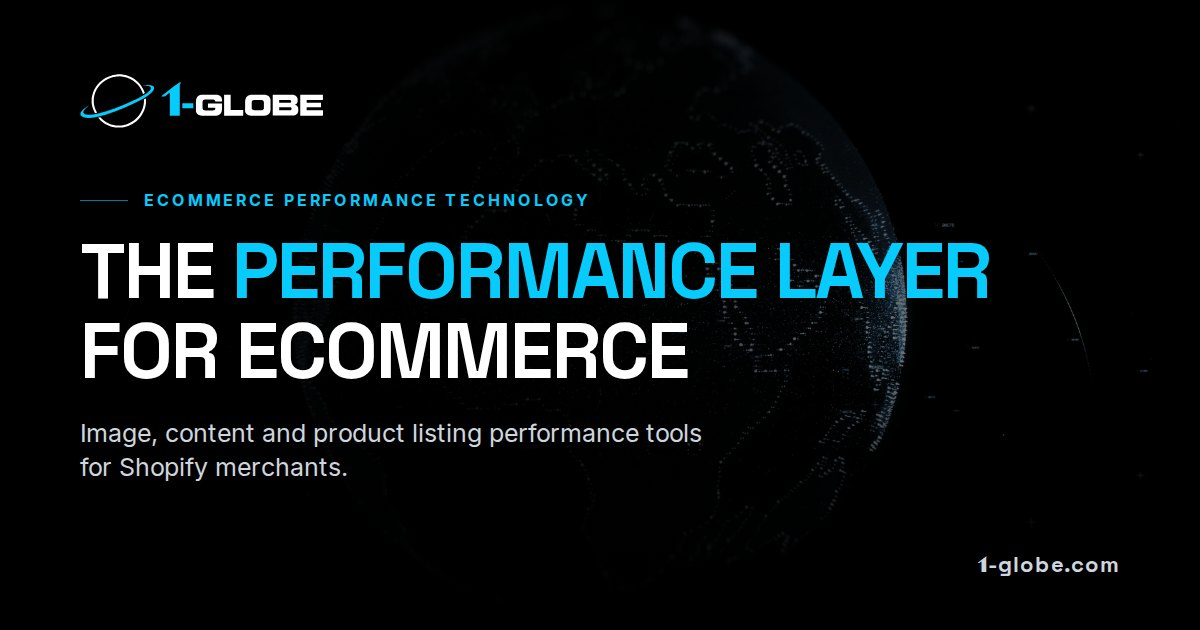
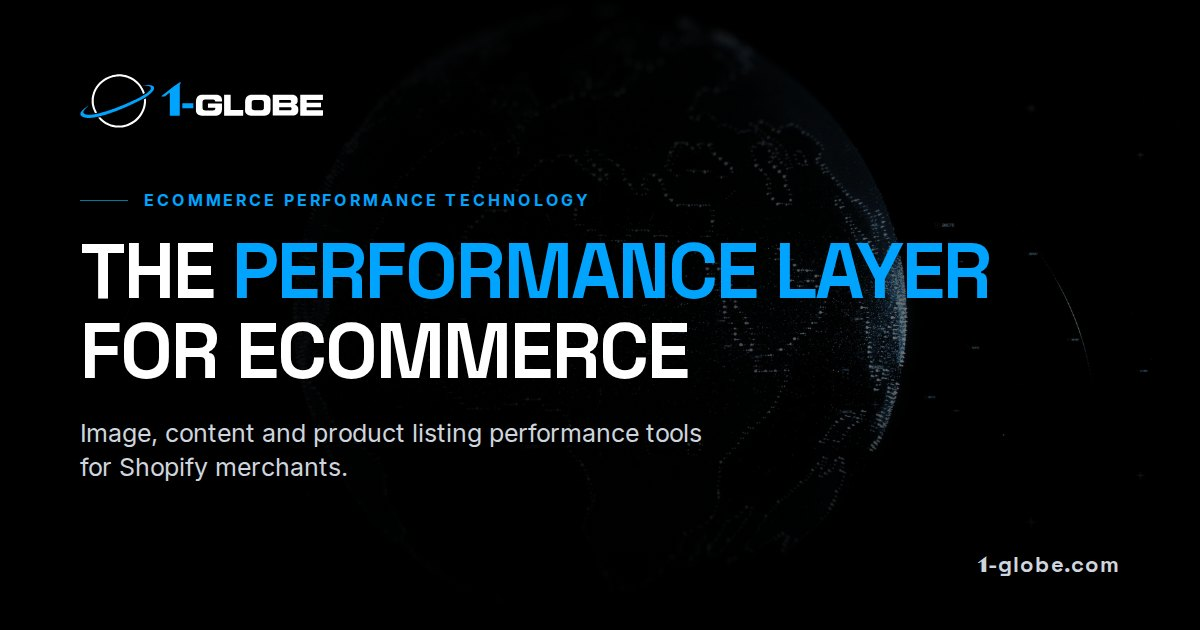
Brand colour #00A4FF, defined once as --brand and used everywhere
- globals.css --brand (R G B) is the single source; primary, accent, ring, info,
  the logo 1-, orbit, app names, animations and Tailwind 'brand' all read from it
- Stock Tailwind cyan in the search animation replaced with brand
- Logo SVGs, favicon, app icons, square logo and share image rebuilt in #00A4FF

Claude-Session: https://claude.ai/code/session_01KSFYk5MT1Bqrc69AhoFdrP

Changed region(s): [[0.185, 0.3619, 0.8325, 0.4825], [0.1233, 0.3016, 0.4933, 0.3317], [0.0925, 0.1206, 0.1542, 0.181]]

diff --git a/src/components/shared/BrandLogo.tsx b/src/components/shared/BrandLogo.tsx
@@ -7,7 +7,7 @@ export interface BrandLockupProps {
 // Official 1-GLOBE logo (globe mark + cyan "1-" + GLOBE wordmark), traced to vector
 // from the master artwork. Standalone files: public/logo.svg, public/logo-dark.svg,
 // public/logo-mark.svg. White parts use currentColor so the logo follows the text colour.
-export const LOGO_CYAN = '#07CAFD'
+export const LOGO_CYAN = 'rgb(var(--brand))' // follows --brand in globals.css
 
 export const BrandLockup: React.FC<BrandLockupProps> = ({ className = '' }) => (
   <svg
@@ -18,7 +18,7 @@ export const BrandLockup: React.FC<BrandLockupProps> = ({ className = '' }) => (
     className={`block h-8 w-auto shrink-0 text-foreground sm:h-9 ${className}`}
   >
     <path fill="currentColor" fillRule="evenodd" d="M357.5 132.5L356.5 132.5L352.2 135.2L347.7 137.5L347 138.5L347 151.5L346.7 155.7L346 158.5L346 161.3L343.8 173.3L343.2 174.8L341.8 181.2L338.8 190.3L337.2 193.8L336 197.3L330 209.2L323.2 220L317.3 227.8L311 235.2L302.7 243.3L294.2 250.5L278.3 261L263 268.8L247.5 274.7L244.8 275.2L243.3 275.8L241.5 276L239.5 276.8L233.5 278L230.8 278.2L228.2 279L225.2 279L219.8 280L201.3 280L195.8 279L193 279L189 278L181.7 277L179.3 276L173.5 274.8L162.5 271L155.5 268L154.3 267.2L145.5 263L136.5 257.5L127.7 251.2L119.8 244.5L110 234.7L108.7 234.7L104.2 235.8L101.5 236.2L99.5 236.8L98.8 237.5L98.8 238L105.7 246L111.7 252L118.8 258.3L124.7 263L136.5 270.8L142.7 274.3L154.3 279.8L161.3 282.7L163.2 283L170.5 285.7L176.3 287L177.7 287.7L179.8 287.8L183.5 288.8L186.5 289L189.8 289.8L192.8 289.8L196.8 290.8L224.2 290.8L228.3 289.8L231.2 289.8L243.3 287.7L244.7 287L246.3 286.8L253.3 284.8L265 280.5L272.8 277L284.3 270.8L296.2 263.2L304.2 257.2L313.2 249.3L322 240.2L329.8 230.3L336 221.3L341.2 212.2L347.5 199L352.8 184.2L355.7 173.3L356 169.8L356.8 166.5L356.8 164.2L357.8 160.5L357.8 156.7L358.3 152.7L358.3 142.5ZM346.5 89.5L339.2 75.3L331 62.7L322.2 51.7L313.3 42.5L301.8 32.5L291.2 24.8L279.2 17.8L269.3 13.2L262.3 10.3L252 7L246.7 5.8L245.3 5.2L243.2 5L240 4.2L235.5 3.8L231.8 3L228.5 3L221.8 2L204.5 2L199 3L195.5 3L192 3.8L188.7 4L184.3 5L182.8 5L180.7 5.8L173.7 7.3L169.2 9L164.5 10.2L149.8 16L137.7 22.2L125.5 29.7L113.7 38.7L104 47.7L94.7 58L86.5 69.5L80.2 80.2L77.2 85.8L71.3 99.5L69 106.5L65.2 121L63.2 134.8L63.2 156L65.2 169.5L69 184.2L74 197.3L81.2 211.2L82.7 211.8L91.8 209.7L92.2 209.3L92 208.2L88.7 202.3L85.3 195.3L82 187.3L79.8 180.8L76.8 169.5L74.8 156.2L74.8 134L75.7 129.8L76 125.3L76.8 122L77 119.5L77.7 118L79 112L82.8 100.5L85.2 94.8L88.8 87.3L95.5 75.8L103.5 65L109.5 58L114.7 52.7L127.8 41.5L139.7 33.7L149.7 28.2L155.3 25.8L158.8 24L166.5 21L168.3 20.7L173 18.8L178.2 17.7L180.3 16.8L182.2 16.7L184.3 15.8L186.2 15.8L190.8 14.8L193.3 14.8L197.3 13.8L200.7 13.8L205.8 13L216.8 12.8L224.7 13.8L228.3 13.8L232.5 14.8L235 14.8L239.5 15.8L241.2 15.8L252 18.8L256.7 20.7L259.3 21.3L272.2 27L279.2 30.7L287.2 35.7L298.8 44.3L311.3 56L317.3 62.8L322.7 69.8L330.2 81.7L336.2 93.7L337 96.3L338.8 100L341.2 107L342.2 108.3L347.2 106L350 104.3L351 103.3L350.8 100.8ZM1195.1 113.5L1195.1 225L1195.3 225.7L1196.3 226L1314.7 226L1317.5 225.8L1318.3 225.3L1318.7 224.2L1318.7 198.3L1318 197.1L1231.5 197.1L1230.2 196.2L1229.9 195.2L1229.9 182.2L1230.8 181L1231.5 180.8L1307.2 180.8L1307.8 179.7L1307.8 157.3L1307.3 156.3L1306.2 156.2L1294.3 156.2L1231.7 156.2L1230.7 156L1230 155.2L1230 141.8L1230.7 141L1231.8 140.6L1317.2 140.6L1318.2 139.3L1318.2 114.3L1318 113.3L1317.2 112.8L1196.5 112.8L1195.7 113ZM1045.8 113.7L1045.8 224.5L1046.5 225.8L1155.2 225.8L1160.3 224.8L1161.8 224.8L1169.3 222.5L1172.2 221L1174.8 219L1178.2 215.8L1180.5 212.5L1181.7 210.2L1183.8 204.3L1184.5 197.7L1184.5 192L1183.7 183.7L1180.8 177.3L1177.2 172.7L1173 170L1165.5 167.5L1165.5 167L1166.5 166.2L1168 165.8L1171.2 164.3L1173 163.2L1175.3 161L1178 157.3L1179.8 153.3L1180.9 150.2L1180.9 141.7L1180.9 134L1177.5 125.8L1175.5 122.8L1172.3 119.5L1170.2 117.8L1167 116.2L1161.3 114.2L1156.7 113.2L1152.2 112.8L1047.5 112.8L1046.5 113ZM1080.8 181.7L1081.8 180.4L1140.3 180.4L1143.3 181L1145.3 182.2L1146.5 183.3L1148 186.8L1148 190.3L1147 193L1145.3 194.8L1143 196.2L1140.3 197L1082 197L1081 196.3L1080.8 195.7ZM1080.8 141.8L1081.7 140.8L1082.5 140.8L1140.5 140.8L1143 142.2L1145 144.5L1145.8 147L1145.8 149.8L1144.8 152.7L1143.5 154.3L1140.3 156.2L1129 156.2L1082.7 156.2L1081.7 156.2L1080.8 155.2ZM782.5 112.9L781.9 114.2L781.9 225.3L783.2 226L883.2 226L884.8 225.7L885.3 225.2L885.5 224.3L885.5 196.2L885.3 195.7L884.3 195L818.7 195L817.5 194.2L817.5 113.7L816.2 112.9ZM1027.7 124.5L1023.2 119.8L1017 116.2L1011.3 114.2L1007 113.2L998.5 112.5L931.7 112.5L925.7 113L920.7 114.2L914.5 116.3L910.7 118.5L906.8 121.5L904.7 123.7L902.3 126.8L900.2 130.7L897.2 139.5L896 146.7L896 184.7L895.5 190.7L895.5 197.2L896 203.2L897 207L900 213.3L902.7 216.3L905.7 218.8L909.8 221.5L915.3 223.7L920.2 224.8L921.8 224.8L927.3 226L934 225.9L1002.3 225.9L1007.3 224.8L1009 224.8L1013.2 223.7L1018.3 221.5L1022 219.2L1024.3 217.2L1027.3 213.8L1030.2 209.2L1032.7 202.2L1033 198.7L1033.8 195.3L1033.8 140.7L1032.7 134.5L1029.7 127.5ZM933.3 147L935.7 144.3L937.5 143.2L940.5 142L944.5 141.3L985.2 141.3L989.2 142L993 143.8L995.3 146L996.8 148.7L997.8 153.7L997.8 185.7L996.7 189.3L995.5 191.2L993.3 193.5L991 194.8L987.7 196.1L944.8 196.1L941.5 195.8L936.7 193.8L934.5 191.8L933.3 190.2L931.8 185.5L931.8 151.5ZM636.3 124.8L633.8 128.7L631 135.5L630 140.3L629.1 151.5L629.1 202.2L631 209.3L632.7 212.2L634.5 214.7L639.8 219.3L644.7 222L649.8 223.8L659.7 226L668.8 225.9L739.3 225.9L746 224.8L752.3 222.8L757.3 220.2L760.8 217.3L763 215L766.8 208.5L768.7 203.3L769.8 198L770.4 189.2L770.4 161.3L769.7 160.3L768.8 160.1L695.7 160.1L694.8 160.5L694.3 161.3L694.2 162.8L694.2 182.2L694.8 183L696.5 183.6L733.2 183.6L734 184.7L734 188.7L732.7 192.2L730 195L728.2 196.2L726 197L720.8 197.7L681 197.7L673.7 196.8L671.3 195.8L669.7 194.7L667.5 192.3L666 189.3L664.9 184.2L664.9 150.7L666 146.3L666.8 144.5L669.8 141.2L672.7 139.8L674.2 139.7L676.3 138.8L722.8 138.8L727.2 140L730 141.5L731.2 142.7L732.8 145.8L733.3 148.3L734.7 149L769.3 149L770.4 148.3L770.4 139.5L769.5 132.7L768 128.7L765.8 124.7L763.5 121.7L759.3 118L756 116.2L750.3 114L746.3 113L738.2 112L664 112L656 113.2L654.2 113.8L652.5 114L647.7 115.8L641.7 119.5L639.5 121.3Z" />
-    <path fill={LOGO_CYAN} fillRule="evenodd" d="M401.3 72.5L400 69.8L397.3 66.7L395.8 65.5L392 63.3L387.8 62.3L386 61.3L383.3 60.7L371.8 59.3L363.8 59.3L356.5 60.2L346.8 60.7L342.7 61.7L342.8 62.2L345.5 62.7L358 62.8L362.3 63.3L373 65.7L378.2 67.5L381.2 69.5L383.3 71.7L384.5 73.7L384.8 75.3L384.7 79L384.2 80.8L382.5 84.2L377.5 90.3L372 95.5L365.3 101.2L358.2 106.5L339.3 118.2L321 128.2L296.5 140.5L293.8 141.5L284 146.5L276.8 149.5L271.3 152.5L269.7 152.8L267 154.3L263.7 155.5L262.2 156.5L256.2 159.2L251 161L244.2 164.3L231.7 169.3L230 170.3L226.3 171.5L215.2 176.3L211.5 177.5L204.5 180.5L202 181.2L200.2 182.2L196.8 183.2L193.2 184.8L190.7 185.5L184.5 188.2L180.7 189.2L178.3 190.3L174.2 191.5L171.3 192.8L162.8 195.5L161.2 196.3L158 197L155 198.3L151 199.3L148.7 200.3L138 203.2L135.8 204.2L130.8 205.3L128 206.5L117.7 209L114.2 210.3L109.3 211.3L106.3 212.5L101.7 213.3L99.5 214.2L91.7 215.5L89.3 216.3L82.5 217.3L79.3 218.3L60.7 221L45.5 221.3L40.8 221.2L34 220.3L32.2 219.5L27.7 218.3L23.5 216.3L19.5 212L18.5 209.3L18.3 205.8L19.3 201.7L21.5 197.5L25.3 192.2L31.8 185.2L39.2 179.2L43.7 175L44.8 174.3L46 172.7L44.7 172.8L36.7 177.5L25.2 185.5L19 190.7L10.8 198.8L5.7 205.7L3.2 210.8L2.3 214.2L2.3 218.2L3.2 222.2L4.7 224.8L7.8 228.3L13.7 232.3L17 233.3L19.5 234.5L25.8 236.2L31.3 236.8L34 237.5L41.8 238.2L54.2 238.2L59.8 237.5L67 237.2L83.7 234.7L87.8 233.5L94.7 232.5L98 231.3L103.3 230.5L106.5 229.5L112 228.5L113.8 227.7L118.3 226.8L121.7 225.5L127.2 224.5L129.5 223.5L139.8 220.7L142.5 219.5L147 218.5L157.8 214.7L160.2 214.2L166.5 211.7L170.3 210.7L172.7 209.5L176 208.7L183.7 205.5L187.3 204.5L189.7 203.3L193.3 202.3L194.8 201.5L203.2 198.5L204.5 197.7L207.8 196.7L210.7 195.2L213.2 194.5L219.7 191.7L223 190.7L229.7 187.5L236 185.2L238.7 183.7L241.8 182.7L248.8 179.5L251 178.8L266.7 171.5L268.3 171L271 169.5L274.2 168.5L288.8 161.3L291.3 160.5L301.5 155.3L304.3 154.3L305.5 153.3L308.2 152.3L312.8 149.7L327.2 142.7L337.7 136.5L341.2 134.8L342.7 133.7L354.2 127L367.5 118.2L378.2 110L384 105L392.3 96.3L397.8 89L400.8 83.2L401.3 81.5L401.8 76.8L401.8 74.5ZM546.3 44.8L539.5 45.7L507.7 67.2L440.8 120.3L443.8 121.6L460.5 121.6L483.8 102.7L487.5 102L487.5 226.2L538.7 226.2L541.5 225L541.5 57.7L547.3 46.8ZM555.2 158.2L614.7 158.2L614.7 185.5L555.2 185.5Z" />
+    <path style={{ fill: LOGO_CYAN }} fillRule="evenodd" d="M401.3 72.5L400 69.8L397.3 66.7L395.8 65.5L392 63.3L387.8 62.3L386 61.3L383.3 60.7L371.8 59.3L363.8 59.3L356.5 60.2L346.8 60.7L342.7 61.7L342.8 62.2L345.5 62.7L358 62.8L362.3 63.3L373 65.7L378.2 67.5L381.2 69.5L383.3 71.7L384.5 73.7L384.8 75.3L384.7 79L384.2 80.8L382.5 84.2L377.5 90.3L372 95.5L365.3 101.2L358.2 106.5L339.3 118.2L321 128.2L296.5 140.5L293.8 141.5L284 146.5L276.8 149.5L271.3 152.5L269.7 152.8L267 154.3L263.7 155.5L262.2 156.5L256.2 159.2L251 161L244.2 164.3L231.7 169.3L230 170.3L226.3 171.5L215.2 176.3L211.5 177.5L204.5 180.5L202 181.2L200.2 182.2L196.8 183.2L193.2 184.8L190.7 185.5L184.5 188.2L180.7 189.2L178.3 190.3L174.2 191.5L171.3 192.8L162.8 195.5L161.2 196.3L158 197L155 198.3L151 199.3L148.7 200.3L138 203.2L135.8 204.2L130.8 205.3L128 206.5L117.7 209L114.2 210.3L109.3 211.3L106.3 212.5L101.7 213.3L99.5 214.2L91.7 215.5L89.3 216.3L82.5 217.3L79.3 218.3L60.7 221L45.5 221.3L40.8 221.2L34 220.3L32.2 219.5L27.7 218.3L23.5 216.3L19.5 212L18.5 209.3L18.3 205.8L19.3 201.7L21.5 197.5L25.3 192.2L31.8 185.2L39.2 179.2L43.7 175L44.8 174.3L46 172.7L44.7 172.8L36.7 177.5L25.2 185.5L19 190.7L10.8 198.8L5.7 205.7L3.2 210.8L2.3 214.2L2.3 218.2L3.2 222.2L4.7 224.8L7.8 228.3L13.7 232.3L17 233.3L19.5 234.5L25.8 236.2L31.3 236.8L34 237.5L41.8 238.2L54.2 238.2L59.8 237.5L67 237.2L83.7 234.7L87.8 233.5L94.7 232.5L98 231.3L103.3 230.5L106.5 229.5L112 228.5L113.8 227.7L118.3 226.8L121.7 225.5L127.2 224.5L129.5 223.5L139.8 220.7L142.5 219.5L147 218.5L157.8 214.7L160.2 214.2L166.5 211.7L170.3 210.7L172.7 209.5L176 208.7L183.7 205.5L187.3 204.5L189.7 203.3L193.3 202.3L194.8 201.5L203.2 198.5L204.5 197.7L207.8 196.7L210.7 195.2L213.2 194.5L219.7 191.7L223 190.7L229.7 187.5L236 185.2L238.7 183.7L241.8 182.7L248.8 179.5L251 178.8L266.7 171.5L268.3 171L271 169.5L274.2 168.5L288.8 161.3L291.3 160.5L301.5 155.3L304.3 154.3L305.5 153.3L308.2 152.3L312.8 149.7L327.2 142.7L337.7 136.5L341.2 134.8L342.7 133.7L354.2 127L367.5 118.2L378.2 110L384 105L392.3 96.3L397.8 89L400.8 83.2L401.3 81.5L401.8 76.8L401.8 74.5ZM546.3 44.8L539.5 45.7L507.7 67.2L440.8 120.3L443.8 121.6L460.5 121.6L483.8 102.7L487.5 102L487.5 226.2L538.7 226.2L541.5 225L541.5 57.7L547.3 46.8ZM555.2 158.2L614.7 158.2L614.7 185.5L555.2 185.5Z" />
   </svg>
 )
 
@@ -41,7 +41,7 @@ export const BrandWordmark: React.FC<BrandWordmarkProps> = ({ className = '' }) 
       style={{ marginBottom: '-0.02em' }}
     >
       <path fill="currentColor" fillRule="evenodd" d="M756.1 70.5L756.1 182L756.3 182.7L757.3 183L875.7 183L878.5 182.8L879.3 182.3L879.7 181.2L879.7 155.3L879 154.1L792.5 154.1L791.2 153.2L790.9 152.2L790.9 139.2L791.8 138L792.5 137.8L868.2 137.8L868.8 136.7L868.8 114.3L868.3 113.3L867.2 113.2L855.3 113.2L792.7 113.2L791.7 113L791 112.2L791 98.8L791.7 98L792.8 97.6L878.2 97.6L879.2 96.3L879.2 71.3L879 70.3L878.2 69.8L757.5 69.8L756.7 70ZM606.8 70.7L606.8 181.5L607.5 182.8L716.2 182.8L721.3 181.8L722.8 181.8L730.3 179.5L733.2 178L735.8 176L739.2 172.8L741.5 169.5L742.7 167.2L744.8 161.3L745.5 154.7L745.5 149L744.7 140.7L741.8 134.3L738.2 129.7L734 127L726.5 124.5L726.5 124L727.5 123.2L729 122.8L732.2 121.3L734 120.2L736.3 118L739 114.3L740.8 110.3L741.9 107.2L741.9 98.7L741.9 91L738.5 82.8L736.5 79.8L733.3 76.5L731.2 74.8L728 73.2L722.3 71.2L717.7 70.2L713.2 69.8L608.5 69.8L607.5 70ZM641.8 138.7L642.8 137.4L701.3 137.4L704.3 138L706.3 139.2L707.5 140.3L709 143.8L709 147.3L708 150L706.3 151.8L704 153.2L701.3 154L643 154L642 153.3L641.8 152.7ZM641.8 98.8L642.7 97.8L643.5 97.8L701.5 97.8L704 99.2L706 101.5L706.8 104L706.8 106.8L705.8 109.7L704.5 111.3L701.3 113.2L690 113.2L643.7 113.2L642.7 113.2L641.8 112.2ZM343.5 69.9L342.9 71.2L342.9 182.3L344.2 183L444.2 183L445.8 182.7L446.3 182.2L446.5 181.3L446.5 153.2L446.3 152.7L445.3 152L379.7 152L378.5 151.2L378.5 70.7L377.2 69.9ZM588.7 81.5L584.2 76.8L578 73.2L572.3 71.2L568 70.2L559.5 69.5L492.7 69.5L486.7 70L481.7 71.2L475.5 73.3L471.7 75.5L467.8 78.5L465.7 80.7L463.3 83.8L461.2 87.7L458.2 96.5L457 103.7L457 141.7L456.5 147.7L456.5 154.2L457 160.2L458 164L461 170.3L463.7 173.3L466.7 175.8L470.8 178.5L476.3 180.7L481.2 181.8L482.8 181.8L488.3 183L495 182.9L563.3 182.9L568.3 181.8L570 181.8L574.2 180.7L579.3 178.5L583 176.2L585.3 174.2L588.3 170.8L591.2 166.2L593.7 159.2L594 155.7L594.8 152.3L594.8 97.7L593.7 91.5L590.7 84.5ZM494.3 104L496.7 101.3L498.5 100.2L501.5 99L505.5 98.3L546.2 98.3L550.2 99L554 100.8L556.3 103L557.8 105.7L558.8 110.7L558.8 142.7L557.7 146.3L556.5 148.2L554.3 150.5L552 151.8L548.7 153.1L505.8 153.1L502.5 152.8L497.7 150.8L495.5 148.8L494.3 147.2L492.8 142.5L492.8 108.5ZM197.3 81.8L194.8 85.7L192 92.5L191 97.3L190.1 108.5L190.1 159.2L192 166.3L193.7 169.2L195.5 171.7L200.8 176.3L205.7 179L210.8 180.8L220.7 183L229.8 182.9L300.3 182.9L307 181.8L313.3 179.8L318.3 177.2L321.8 174.3L324 172L327.8 165.5L329.7 160.3L330.8 155L331.4 146.2L331.4 118.3L330.7 117.3L329.8 117.1L256.7 117.1L255.8 117.5L255.3 118.3L255.2 119.8L255.2 139.2L255.8 140L257.5 140.6L294.2 140.6L295 141.7L295 145.7L293.7 149.2L291 152L289.2 153.2L287 154L281.8 154.7L242 154.7L234.7 153.8L232.3 152.8L230.7 151.7L228.5 149.3L227 146.3L225.9 141.2L225.9 107.7L227 103.3L227.8 101.5L230.8 98.2L233.7 96.8L235.2 96.7L237.3 95.8L283.8 95.8L288.2 97L291 98.5L292.2 99.7L293.8 102.8L294.3 105.3L295.7 106L330.3 106L331.4 105.3L331.4 96.5L330.5 89.7L329 85.7L326.8 81.7L324.5 78.7L320.3 75L317 73.2L311.3 71L307.3 70L299.2 69L225 69L217 70.2L215.2 70.8L213.5 71L208.7 72.8L202.7 76.5L200.5 78.3Z" />
-      <path fill={LOGO_CYAN} fillRule="evenodd" d="M107.3 1.8L100.5 2.7L68.7 24.2L1.8 77.3L4.8 78.6L21.5 78.6L44.8 59.7L48.5 59L48.5 183.2L99.7 183.2L102.5 182L102.5 14.7L108.3 3.8ZM116.2 115.2L175.7 115.2L175.7 142.5L116.2 142.5Z" />
+      <path style={{ fill: LOGO_CYAN }} fillRule="evenodd" d="M107.3 1.8L100.5 2.7L68.7 24.2L1.8 77.3L4.8 78.6L21.5 78.6L44.8 59.7L48.5 59L48.5 183.2L99.7 183.2L102.5 182L102.5 14.7L108.3 3.8ZM116.2 115.2L175.7 115.2L175.7 142.5L116.2 142.5Z" />
     </svg>
   </>
 )
@@ -112,7 +112,7 @@ export const AppMark: React.FC<AppMarkProps> = ({ app, className = '' }) => (
     className={`inline-block shrink-0 ${className}`}
   >
     <path fill="currentColor" fillRule="evenodd" d={MARK_SHAPES[app]} />
-    <path fill={LOGO_CYAN} d={MARK_ORBIT} />
+    <path style={{ fill: LOGO_CYAN }} d={MARK_ORBIT} />
   </svg>
 )
 

diff --git a/src/components/feature-page/AIPipelineHeroCard.tsx b/src/components/feature-page/AIPipelineHeroCard.tsx
@@ -15,12 +15,12 @@ export const AIPipelineHeroCard: React.FC = () => {
         }
         @keyframes fadeOutIn {
           0%, 23% { content: "IMG_4837.jpg"; color: #94a3b8; text-shadow: none; }
-          25%, 32% { content: "wooden-wall-clock-12-inch.webp"; color: #fff; text-shadow: 0 0 10px #07CAFD, 0 0 20px #07CAFD; }
-          35%, 100% { content: "wooden-wall-clock-12-inch.webp"; color: #07CAFD; text-shadow: none; }
+          25%, 32% { content: "wooden-wall-clock-12-inch.webp"; color: #fff; text-shadow: 0 0 10px rgb(var(--brand)), 0 0 20px rgb(var(--brand)); }
+          35%, 100% { content: "wooden-wall-clock-12-inch.webp"; color: rgb(var(--brand)); text-shadow: none; }
         }
         @keyframes highlightFilenameBox {
           0%, 20% { border-color: rgba(30,41,59,1); box-shadow: none; background-color: rgba(15,23,42,0.6); }
-          24%, 34% { border-color: rgba(7, 202, 253,0.5); box-shadow: 0 0 15px rgba(7, 202, 253,0.15); background-color: rgba(7, 202, 253,0.05); }
+          24%, 34% { border-color: rgb(var(--brand) / 0.5); box-shadow: 0 0 15px rgb(var(--brand) / 0.15); background-color: rgb(var(--brand) / 0.05); }
           38%, 100% { border-color: rgba(30,41,59,1); box-shadow: none; background-color: rgba(15,23,42,0.6); }
         }
         @keyframes typewriter {
@@ -29,7 +29,7 @@ export const AIPipelineHeroCard: React.FC = () => {
         }
         @keyframes highlightAltBox {
           0%, 38% { border-color: rgba(30,41,59,1); box-shadow: none; background-color: rgba(15,23,42,0.6); }
-          40%, 72% { border-color: rgba(7, 202, 253,0.5); box-shadow: 0 0 15px rgba(7, 202, 253,0.15); background-color: rgba(7, 202, 253,0.05); }
+          40%, 72% { border-color: rgb(var(--brand) / 0.5); box-shadow: 0 0 15px rgb(var(--brand) / 0.15); background-color: rgb(var(--brand) / 0.05); }
           76%, 100% { border-color: rgba(30,41,59,1); box-shadow: none; background-color: rgba(15,23,42,0.6); }
         }
         @keyframes arrowFlow {
@@ -38,7 +38,7 @@ export const AIPipelineHeroCard: React.FC = () => {
         }
         @keyframes badgeGlow {
           0%, 76% { border-color: rgba(51, 65, 85, 0.5); color: #64748b; background-color: transparent; }
-          82%, 100% { border-color: rgba(7, 202, 253, 0.4); color: #fff; background-color: rgba(7, 202, 253, 0.1); box-shadow: 0 0 12px rgba(7, 202, 253,0.15); }
+          82%, 100% { border-color: rgb(var(--brand) / 0.4); color: #fff; background-color: rgb(var(--brand) / 0.1); box-shadow: 0 0 12px rgb(var(--brand) / 0.15); }
         }
         @keyframes pulseCheck {
           0%, 33% { opacity: 0; transform: scale(0.5); }
@@ -48,7 +48,7 @@ export const AIPipelineHeroCard: React.FC = () => {
         .animate-scan { animation: scanLine 10s linear infinite; }
         .animate-filename::before { content: "IMG_4837.jpg"; animation: fadeOutIn 10s linear infinite; }
         .animate-filename-box { animation: highlightFilenameBox 10s linear infinite; }
-        .animate-typewriter { animation: typewriter 10s steps(40, end) infinite; overflow: hidden; white-space: nowrap; border-right: 2px solid #07CAFD; }
+        .animate-typewriter { animation: typewriter 10s steps(40, end) infinite; overflow: hidden; white-space: nowrap; border-right: 2px solid rgb(var(--brand)); }
         .animate-alt-box { animation: highlightAltBox 10s linear infinite; }
         .animate-flow { animation: arrowFlow 10s ease-out infinite; }
         .animate-badge { animation: badgeGlow 10s ease-out infinite; }
@@ -58,9 +58,9 @@ export const AIPipelineHeroCard: React.FC = () => {
           .animate-scan, .animate-filename::before, .animate-typewriter, .animate-flow, .animate-badge, .animate-check, .animate-filename-box, .animate-alt-box {
             animation: none !important;
           }
-          .animate-filename::before { content: "wooden-wall-clock-12-inch.webp"; color: #07CAFD; }
+          .animate-filename::before { content: "wooden-wall-clock-12-inch.webp"; color: rgb(var(--brand)); }
           .animate-typewriter { width: 100%; border-right: none; }
-          .animate-badge { border-color: rgba(7, 202, 253, 0.4); color: #fff; background-color: rgba(7, 202, 253, 0.1); }
+          .animate-badge { border-color: rgb(var(--brand) / 0.4); color: #fff; background-color: rgb(var(--brand) / 0.1); }
           .animate-check { opacity: 1; transform: scale(1); }
           .animate-filename-box, .animate-alt-box { border-color: rgba(30,41,59,1); background-color: rgba(15,23,42,0.6); }
         }
@@ -77,7 +77,7 @@ export const AIPipelineHeroCard: React.FC = () => {
             className="object-cover opacity-80"
           />
           {/* Scanning Line */}
-          <div className="absolute left-0 w-full h-[2px] bg-primary shadow-[0_0_8px_2px_rgba(7, 202, 253,0.6)] animate-scan z-10">
+          <div className="absolute left-0 w-full h-[2px] bg-primary shadow-[0_0_8px_2px_rgb(var(--brand)/0.6)] animate-scan z-10">
             <div className="absolute top-0 left-0 w-full h-12 bg-gradient-to-b from-primary/20 to-transparent -translate-y-full" />
           </div>
           

diff --git a/src/components/home/GoogleSearchAnimationCard.tsx b/src/components/home/GoogleSearchAnimationCard.tsx
@@ -53,7 +53,7 @@ export const GoogleSearchAnimationCard: React.FC = () => {
         `}} />
 
         {/* Ambient Glows */}
-        <div className="absolute top-0 right-0 w-[400px] h-[300px] bg-cyan-500/5 blur-[80px] pointer-events-none rounded-full" />
+        <div className="absolute top-0 right-0 w-[400px] h-[300px] bg-brand/5 blur-[80px] pointer-events-none rounded-full" />
         <div className="absolute bottom-0 left-0 w-[400px] h-[300px] bg-teal-500/5 blur-[80px] pointer-events-none rounded-full" />
 
         {/* Left Side: Your Store */}
@@ -89,17 +89,17 @@ export const GoogleSearchAnimationCard: React.FC = () => {
           {/* Metadata Boxes */}
           <div className="grid grid-cols-1 sm:grid-cols-2 lg:grid-cols-1 gap-3">
             {/* Filename */}
-            <div className={`p-3.5 rounded-[var(--radius)] border transition-all duration-500 ${step === 1 ? 'border-cyan-500 bg-cyan-500/10 shadow-[0_0_15px_rgba(7, 202, 253,0.15)]' : step >= 2 ? 'border-slate-600 bg-slate-800/50' : 'border-slate-700 bg-slate-800/50'}`}>
+            <div className={`p-3.5 rounded-[var(--radius)] border transition-all duration-500 ${step === 1 ? 'border-brand bg-brand/10 shadow-[0_0_15px_rgb(var(--brand)/0.15)]' : step >= 2 ? 'border-slate-600 bg-slate-800/50' : 'border-slate-700 bg-slate-800/50'}`}>
               <div className="text-[13px] text-slate-500 uppercase tracking-wider mb-1.5 flex items-center gap-1.5">
                 <ImageIcon className="w-3 h-3" /> Filename
               </div>
-              <div className={`font-mono text-[13px] sm:text-[12px] truncate transition-colors duration-300 ${step >= 1 ? 'text-cyan-400' : 'text-slate-400'}`}>
+              <div className={`font-mono text-[13px] sm:text-[12px] truncate transition-colors duration-300 ${step >= 1 ? 'text-brand' : 'text-slate-400'}`}>
                 {step >= 1 ? 'hand-block-print-floral-quilted-comforter-cream-coral.webp' : 'IMG-20260115-WA0032.jpg'}
               </div>
             </div>
 
             {/* Alt Text */}
-            <div className={`p-3.5 rounded-[var(--radius)] border transition-all duration-500 ${step === 1 ? 'border-cyan-500 bg-cyan-500/10 shadow-[0_0_15px_rgba(7, 202, 253,0.15)]' : step >= 2 ? 'border-slate-600 bg-slate-800/50' : 'border-slate-700 bg-slate-800/50'}`}>
+            <div className={`p-3.5 rounded-[var(--radius)] border transition-all duration-500 ${step === 1 ? 'border-brand bg-brand/10 shadow-[0_0_15px_rgb(var(--brand)/0.15)]' : step >= 2 ? 'border-slate-600 bg-slate-800/50' : 'border-slate-700 bg-slate-800/50'}`}>
               <div className="text-[13px] text-slate-500 uppercase tracking-wider mb-1.5 flex items-center gap-1.5">
                 <FileText className="w-3 h-3" /> Alt Text
               </div>
@@ -124,7 +124,7 @@ export const GoogleSearchAnimationCard: React.FC = () => {
           <div className="text-xs font-bold uppercase tracking-[0.14em] text-slate-500 mb-4 lg:mb-6 flex justify-between items-center h-5">
             <span>Search Engines & AI</span>
             {step === 2 && (
-              <span className="flex items-center gap-1.5 text-cyan-400 bg-cyan-500/10 px-2 py-0.5 rounded border border-cyan-500/20 animate-pulse">
+              <span className="flex items-center gap-1.5 text-brand bg-brand/10 px-2 py-0.5 rounded border border-brand/20 animate-pulse">
                 <RefreshCw className="w-3 h-3 animate-spin" /> Re-scanning...
               </span>
             )}
@@ -132,8 +132,8 @@ export const GoogleSearchAnimationCard: React.FC = () => {
           
           <div className="bg-slate-900/80 backdrop-blur border border-slate-700 p-4 sm:p-6 w-full">
             {/* Search Bar */}
-            <div className={`bg-slate-800 border rounded-full h-12 px-4 flex items-center gap-3 mb-8 transition-colors duration-300 ${step === 2 ? 'border-cyan-500/50 shadow-[0_0_10px_rgba(7, 202, 253,0.1)]' : 'border-slate-600 shadow-inner'}`}>
-              <Search className={`w-5 h-5 transition-colors ${step === 2 ? 'text-cyan-400 animate-pulse' : 'text-slate-400'}`} />
+            <div className={`bg-slate-800 border rounded-full h-12 px-4 flex items-center gap-3 mb-8 transition-colors duration-300 ${step === 2 ? 'border-brand/50 shadow-[0_0_10px_rgb(var(--brand)/0.1)]' : 'border-slate-600 shadow-inner'}`}>
+              <Search className={`w-5 h-5 transition-colors ${step === 2 ? 'text-brand animate-pulse' : 'text-slate-400'}`} />
               <div className="text-slate-200 font-medium font-sans w-full">
                 hand block print comforter
               </div>

diff --git a/src/components/home/InfographicShowcase.tsx b/src/components/home/InfographicShowcase.tsx
@@ -109,18 +109,18 @@ export const InfographicShowcase: React.FC = () => {
         @keyframes s1-scanLine { 0% { top: 0%; opacity: 0; } 5% { opacity: 1; } 18% { top: 100%; opacity: 1; } 20% { opacity: 0; top: 100%; } 100% { opacity: 0; top: 0%; } }
         @keyframes s1-filenameChange { 
           0%, 23% { content: "IMG-20260115-WA0032.jpg"; color: #94a3b8; } 
-          25%, 32% { content: "hand-block-print-floral-quilted-comforter-cream-coral.webp"; color: #fff; text-shadow: 0 0 10px #07CAFD; } 
-          35%, 100% { content: "hand-block-print-floral-quilted-comforter-cream-coral.webp"; color: #07CAFD; } 
+          25%, 32% { content: "hand-block-print-floral-quilted-comforter-cream-coral.webp"; color: #fff; text-shadow: 0 0 10px rgb(var(--brand)); } 
+          35%, 100% { content: "hand-block-print-floral-quilted-comforter-cream-coral.webp"; color: rgb(var(--brand)); } 
         }
         @keyframes s1-typewriter { 0%, 40% { width: 0; opacity: 1; } 70%, 100% { width: 100%; opacity: 1; } }
         @keyframes s1-badgeGlow { 
           0%, 76% { border-color: rgba(51, 65, 85, 0.5); color: #64748b; background-color: transparent; } 
-          82%, 100% { border-color: rgba(7, 202, 253, 0.4); color: #fff; background-color: rgba(7, 202, 253, 0.1); box-shadow: 0 0 12px rgba(7, 202, 253,0.15); } 
+          82%, 100% { border-color: rgb(var(--brand) / 0.4); color: #fff; background-color: rgb(var(--brand) / 0.1); box-shadow: 0 0 12px rgb(var(--brand) / 0.15); } 
         }
 
         .s1-animate-scan { animation: s1-scanLine 8s linear infinite; }
         .s1-animate-filename::before { content: "IMG-20260115-WA0032.jpg"; animation: s1-filenameChange 8s linear infinite; }
-        .s1-animate-typewriter { animation: s1-typewriter 8s steps(60, end) infinite; overflow: hidden; white-space: nowrap; border-right: 2px solid #07CAFD; }
+        .s1-animate-typewriter { animation: s1-typewriter 8s steps(60, end) infinite; overflow: hidden; white-space: nowrap; border-right: 2px solid rgb(var(--brand)); }
         .s1-animate-badge { animation: s1-badgeGlow 8s ease-out infinite; }
         
         /* Slide 2 CSS Animations */
@@ -145,9 +145,9 @@ export const InfographicShowcase: React.FC = () => {
 
         @media (prefers-reduced-motion) {
           .s1-animate-scan, .s1-animate-filename::before, .s1-animate-typewriter, .s1-animate-badge, .s2-node-1, .s2-arrow-1, .s2-node-2, .s2-arrow-2, .s2-node-3, .s2-arrow-3, .s2-node-4, .s2-arrow-4, .s2-node-5 { animation: none !important; }
-          .s1-animate-filename::before { content: "hand-block-print-floral-quilted-comforter-cream-coral.webp"; color: #07CAFD; }
+          .s1-animate-filename::before { content: "hand-block-print-floral-quilted-comforter-cream-coral.webp"; color: rgb(var(--brand)); }
           .s1-animate-typewriter { width: 100%; border-right: none; }
-          .s1-animate-badge { border-color: rgba(7, 202, 253, 0.4); color: #fff; background-color: rgba(7, 202, 253, 0.1); }
+          .s1-animate-badge { border-color: rgb(var(--brand) / 0.4); color: #fff; background-color: rgb(var(--brand) / 0.1); }
           .s2-node-1, .s2-node-2, .s2-node-3, .s2-node-4, .s2-node-5 { border-color: rgba(94, 211, 176, 0.5); background-color: rgba(94, 211, 176, 0.1); color: #5ED3B0; }
           .s2-arrow-1, .s2-arrow-2, .s2-arrow-3, .s2-arrow-4 { color: #5ED3B0; }
         }
@@ -167,7 +167,7 @@ const Slide1Content: React.FC = () => {
         {/* Visual Box */}
         <div className="relative w-full md:w-1/2 bg-slate-800 border border-slate-700/50 rounded-xl overflow-hidden aspect-video shadow-xl">
           <Image src="/demo-product.jpg" alt="Ivory quilted comforter with coral block-printed flowers and a blue and coral border, on a bed with white pillows" fill sizes="(max-width: 768px) 100vw, 50vw" className="object-cover opacity-80" />
-          <div className="absolute left-0 w-full h-[2px] bg-primary shadow-[0_0_8px_2px_rgba(7, 202, 253,0.6)] s1-animate-scan z-10">
+          <div className="absolute left-0 w-full h-[2px] bg-primary shadow-[0_0_8px_2px_rgb(var(--brand)/0.6)] s1-animate-scan z-10">
             <div className="absolute top-0 left-0 w-full h-12 bg-gradient-to-b from-primary/20 to-transparent -translate-y-full" />
           </div>
           <div className="absolute bottom-2 right-2 bg-slate-900/80 backdrop-blur-md border border-slate-700/50 rounded-lg px-2.5 py-1.5 flex flex-col shadow-lg">

diff --git a/src/app/globals.css b/src/app/globals.css
@@ -26,7 +26,11 @@
 
 @layer base {
   :root {
-    /* Calmer dark theme: deep blue-grey ground, soft white text, brand blue from the logo (#07CAFD). */
+    /* THE brand colour. Change it here only: every cyan on the site (text, buttons, logo "1-",
+       orbit, app names, animations) reads from --brand. Format: R G B. #00A4FF */
+    --brand: 0 164 255;
+
+    /* Calmer dark theme: deep blue-grey ground, soft white text. */
     --background: 213 29% 6%; /* #0B0F14 */
     --foreground: 216 26% 92%; /* #E6EAF0 */
 
@@ -36,8 +40,8 @@
     --popover: 215 29% 12%;
     --popover-foreground: 216 26% 92%;
 
-    /* 1-GLOBE blue (logo) */
-    --primary: 192 98% 51%; /* #07CAFD, the 1-GLOBE logo cyan */
+    /* Accent colours follow the brand colour. */
+    --primary: var(--brand);
     --primary-foreground: 213 29% 6%;
 
     --secondary: 215 26% 15%; /* #1C2430 */
@@ -46,7 +50,7 @@
     --muted: 215 27% 10%;
     --muted-foreground: 215 16% 75%; /* #B4BCC8 */
 
-    --accent: 197 94% 62%;
+    --accent: var(--brand);
     --accent-foreground: 213 29% 6%;
 
     --destructive: 6 79% 72%; /* soft coral #F08A7E */
@@ -58,12 +62,12 @@
     --warning: 38 92% 60%;
     --warning-foreground: 0 0% 10%;
 
-    --info: 197 94% 62%;
+    --info: var(--brand);
     --info-foreground: 213 29% 6%;
 
     --border: 215 23% 18%; /* #232C38 */
     --input: 215 23% 18%;
-    --ring: 197 94% 62%;
+    --ring: var(--brand);
 
     /* Neutral, white and black used by Tailwind classes (text-neutral-400, bg-white ...).
        RGB triplets so opacity modifiers work. The .reading-light scope below swaps them. */
@@ -121,12 +125,12 @@
   }
 
   ::selection {
-    background-color: hsl(var(--primary) / 0.25);
-    color: hsl(var(--primary));
+    background-color: rgb(var(--primary) / 0.25);
+    color: rgb(var(--primary));
   }
 
   :focus-visible {
-    outline: 2px solid hsl(var(--primary));
+    outline: 2px solid rgb(var(--primary));
     outline-offset: 2px;
   }
 }
@@ -162,7 +166,7 @@
     font-feature-settings: normal;
   }
   .brand-one {
-    color: #07CAFD;
+    color: rgb(var(--brand));
   }
   /* Secondary buttons: a light grey fill so they read as buttons on dark backgrounds. */
   .btn-secondary {
@@ -223,7 +227,7 @@
     margin-bottom: 1.25rem;
   }
   .rich-text a {
-    color: hsl(var(--primary));
+    color: rgb(var(--primary));
     text-decoration: underline;
   }
   .rich-text ul,
@@ -235,7 +239,7 @@
   .rich-text ol { list-style: decimal; }
   .rich-text li { margin-bottom: 0.5rem; }
   .rich-text blockquote {
-    border-left: 3px solid hsl(var(--primary));
+    border-left: 3px solid rgb(var(--primary));
     padding-left: 1rem;
     font-style: italic;
     margin: 1.5rem 0;
@@ -335,19 +339,19 @@ html {
   --foreground: 218 26% 14%; /* #1A202C */
   --card: 0 0% 100%;
   --card-foreground: 218 26% 14%;
-  --primary: 198 88% 32%; /* #0A6E99 */
+  --primary: 10 110 153; /* #0A6E99: darker so small links stay readable on white */
   --primary-foreground: 0 0% 100%;
   --secondary: 216 25% 94%;
   --secondary-foreground: 218 26% 14%;
   --muted: 216 20% 95%;
   --muted-foreground: 217 18% 28%; /* #3A4454 */
-  --accent: 198 88% 32%;
+  --accent: 10 110 153;
   --accent-foreground: 0 0% 100%;
   --destructive: 355 46% 48%; /* #B4424A */
   --destructive-foreground: 0 0% 100%;
   --border: 216 20% 90%; /* #E2E6EC */
   --input: 216 20% 90%;
-  --ring: 198 88% 32%;
+  --ring: 10 110 153;
   --n-50: 17 23 32;
   --n-100: 26 32 44;
   --n-200: 31 39 51;

diff --git a/tailwind.config.ts b/tailwind.config.ts
@@ -37,12 +37,12 @@ const config: Config = {
         black: 'rgb(var(--c-black) / <alpha-value>)',
         border: 'hsl(var(--border))',
         input: 'hsl(var(--input))',
-        ring: 'hsl(var(--ring))',
+        ring: 'rgb(var(--ring) / <alpha-value>)',
         background: 'hsl(var(--background))',
         foreground: 'hsl(var(--foreground))',
-        brand: '#07CAFD',
+        brand: 'rgb(var(--brand) / <alpha-value>)',
         primary: {
-          DEFAULT: 'hsl(var(--primary))',
+          DEFAULT: 'rgb(var(--primary) / <alpha-value>)',
           foreground: 'hsl(var(--primary-foreground))'
         },
         secondary: {
@@ -58,7 +58,7 @@ const config: Config = {
           foreground: 'hsl(var(--muted-foreground))'
         },
         accent: {
-          DEFAULT: 'hsl(var(--accent))',
+          DEFAULT: 'rgb(var(--accent) / <alpha-value>)',
           foreground: 'hsl(var(--accent-foreground))'
         },
         popover: {
@@ -78,7 +78,7 @@ const config: Config = {
           foreground: 'hsl(var(--warning-foreground))'
         },
         info: {
-          DEFAULT: 'hsl(var(--info))',
+          DEFAULT: 'rgb(var(--info) / <alpha-value>)',
           foreground: 'hsl(var(--info-foreground))'
         }
       },
